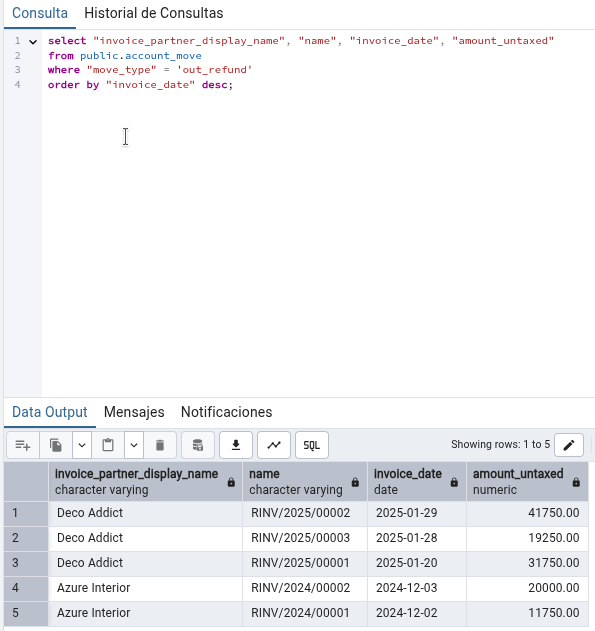
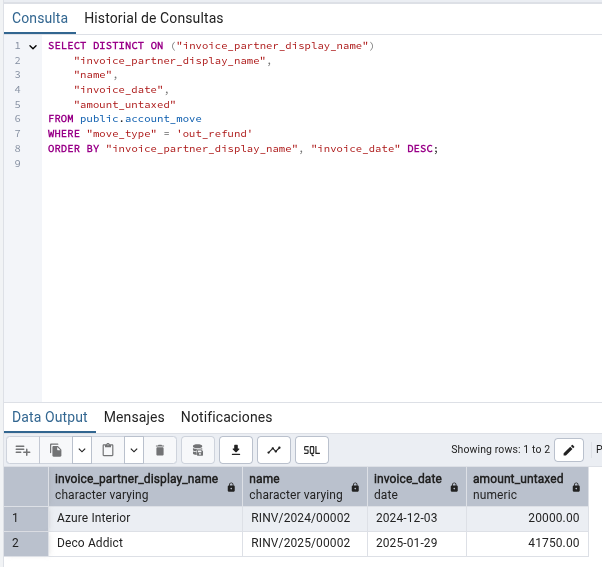
Apartado 5

diff --git a/README.md b/README.md
@@ -91,10 +91,14 @@ emitido algún reembolso (facturas recticativas de proveedor)
 Ordenadas por fecha de factura de modo que la primera sea la más reciente.
 
 ```sql
-select "invoice_partner_display_name", "name", "invoice_date", "amount_untaxed"
-from public.account_move
-where "move_type" = 'out_refund'
-order by "invoice_date" desc;
+SELECT DISTINCT ON ("invoice_partner_display_name") 
+    "invoice_partner_display_name", 
+    "name", 
+    "invoice_date", 
+    "amount_untaxed"
+FROM public.account_move
+WHERE "move_type" = 'out_refund'
+ORDER BY "invoice_partner_display_name", "invoice_date" DESC;
 ```
 
 ![Consulta](img/6.png)
